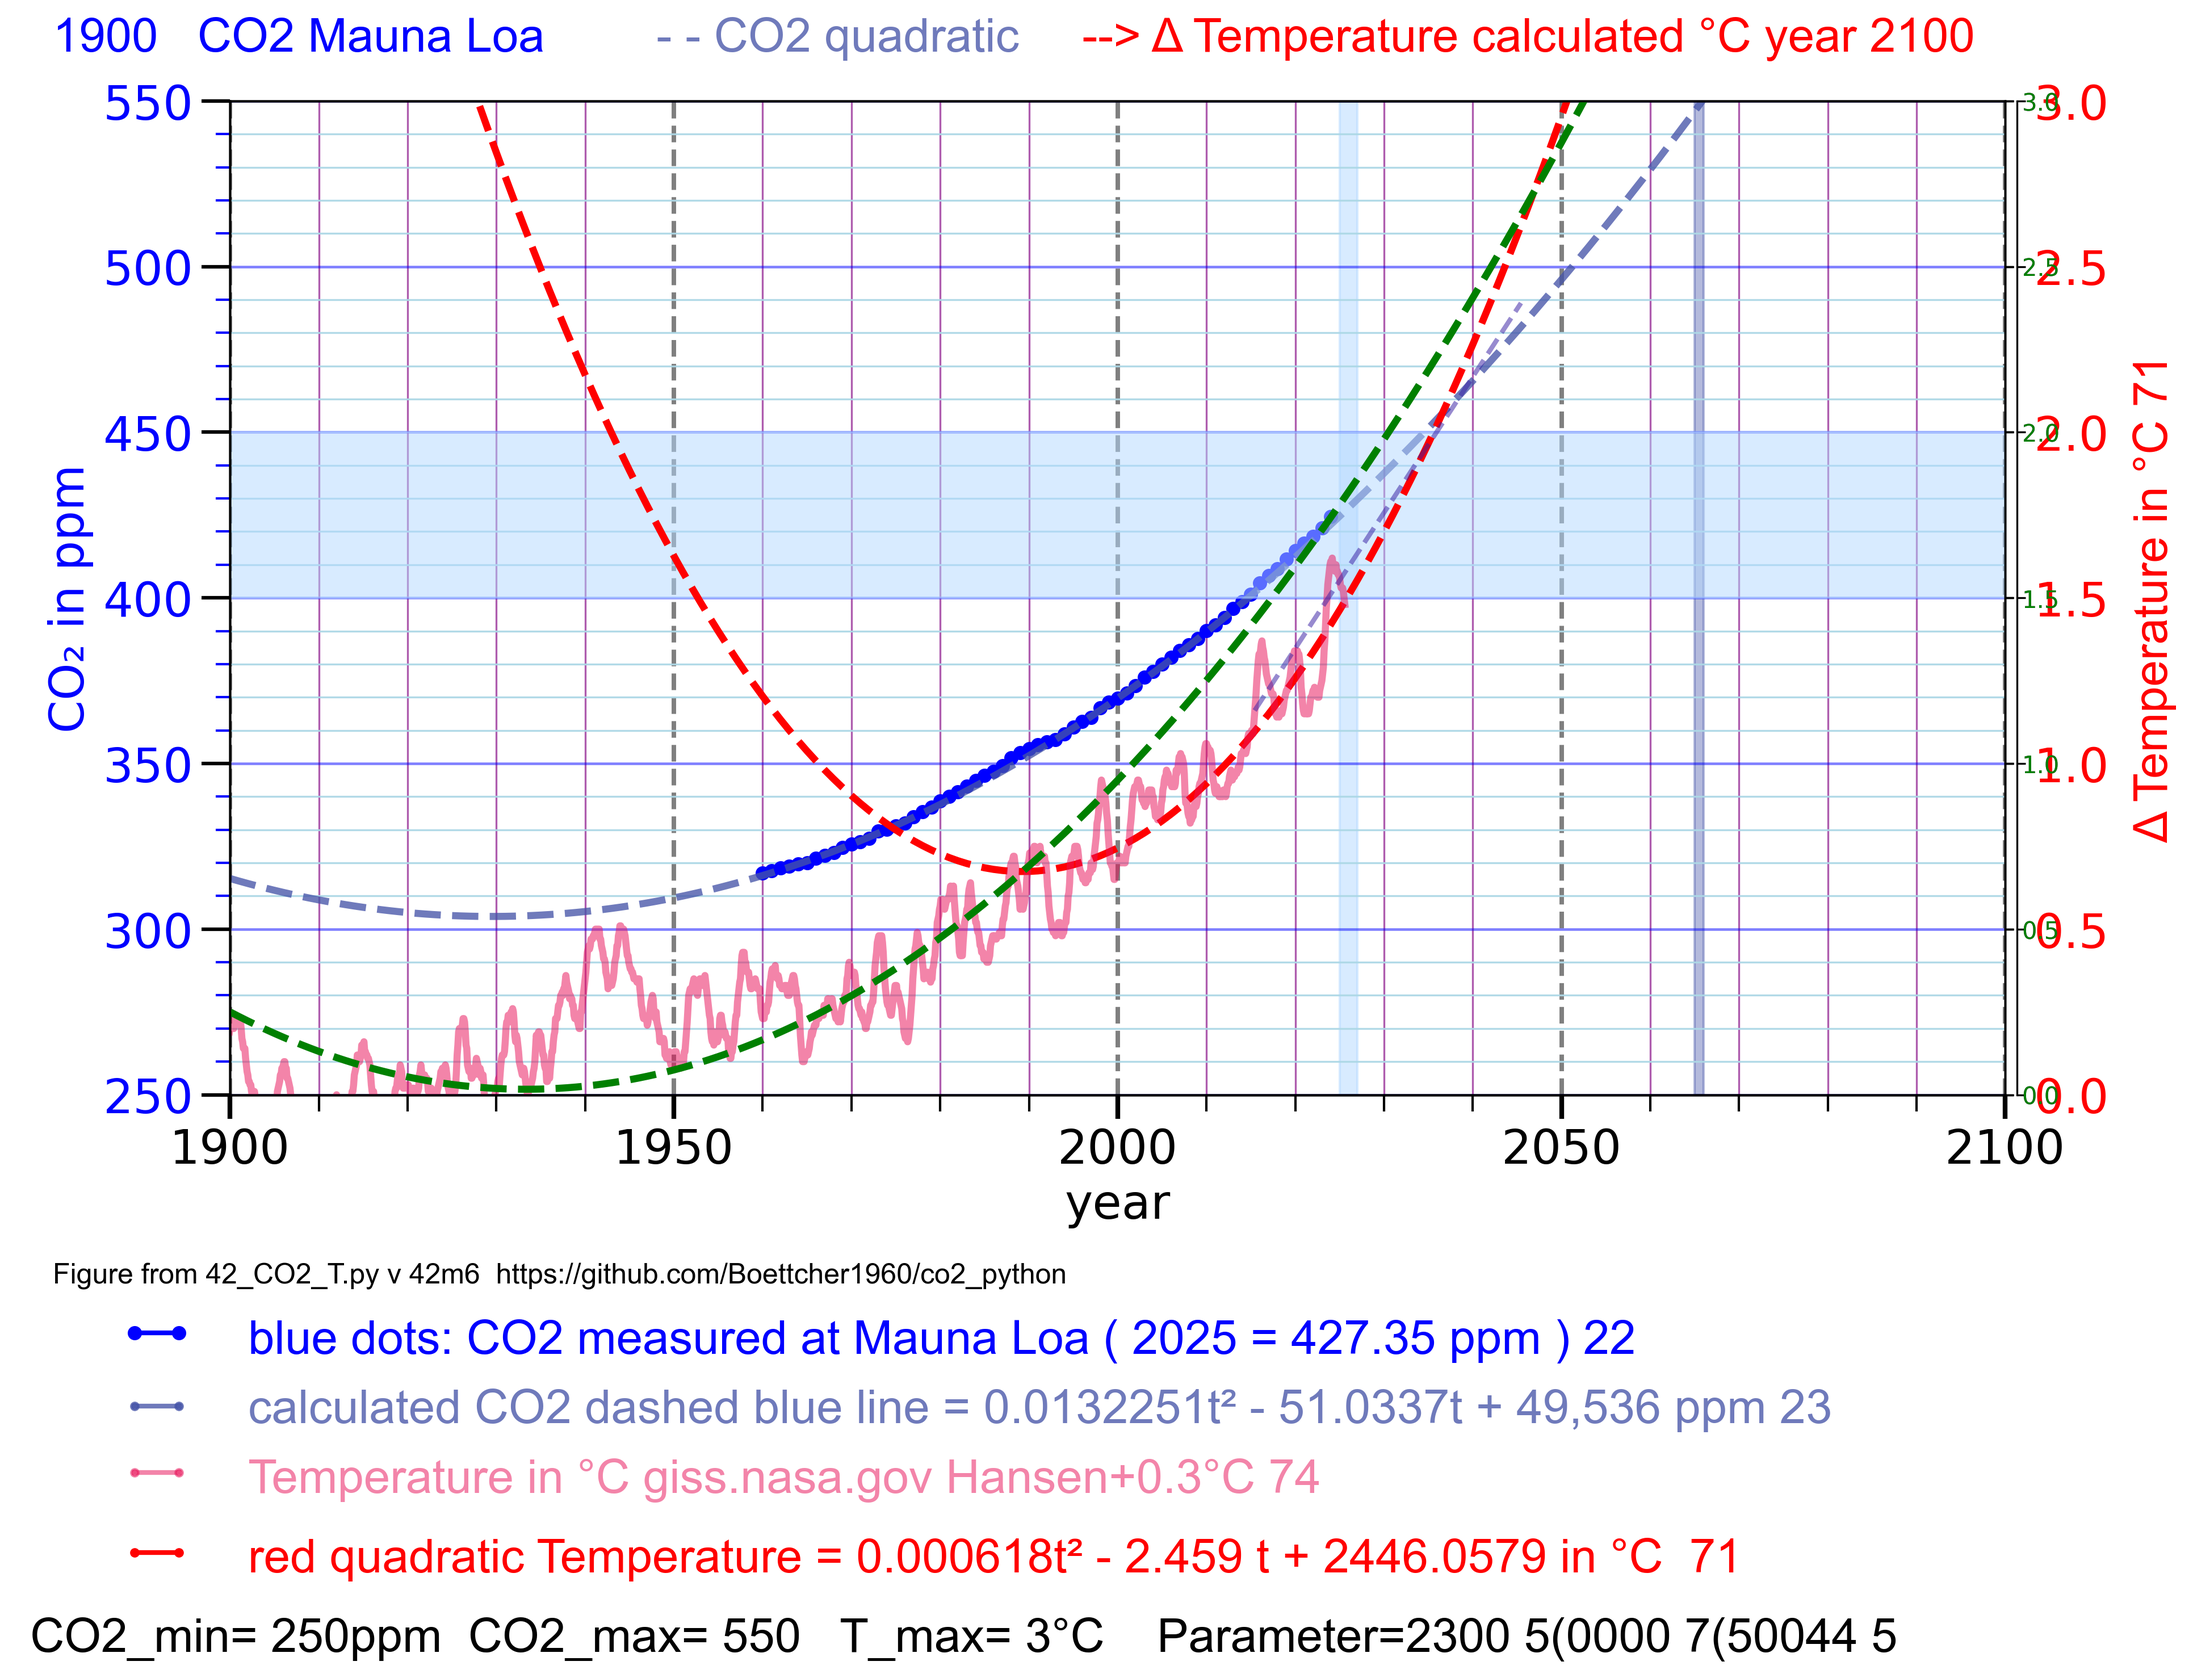
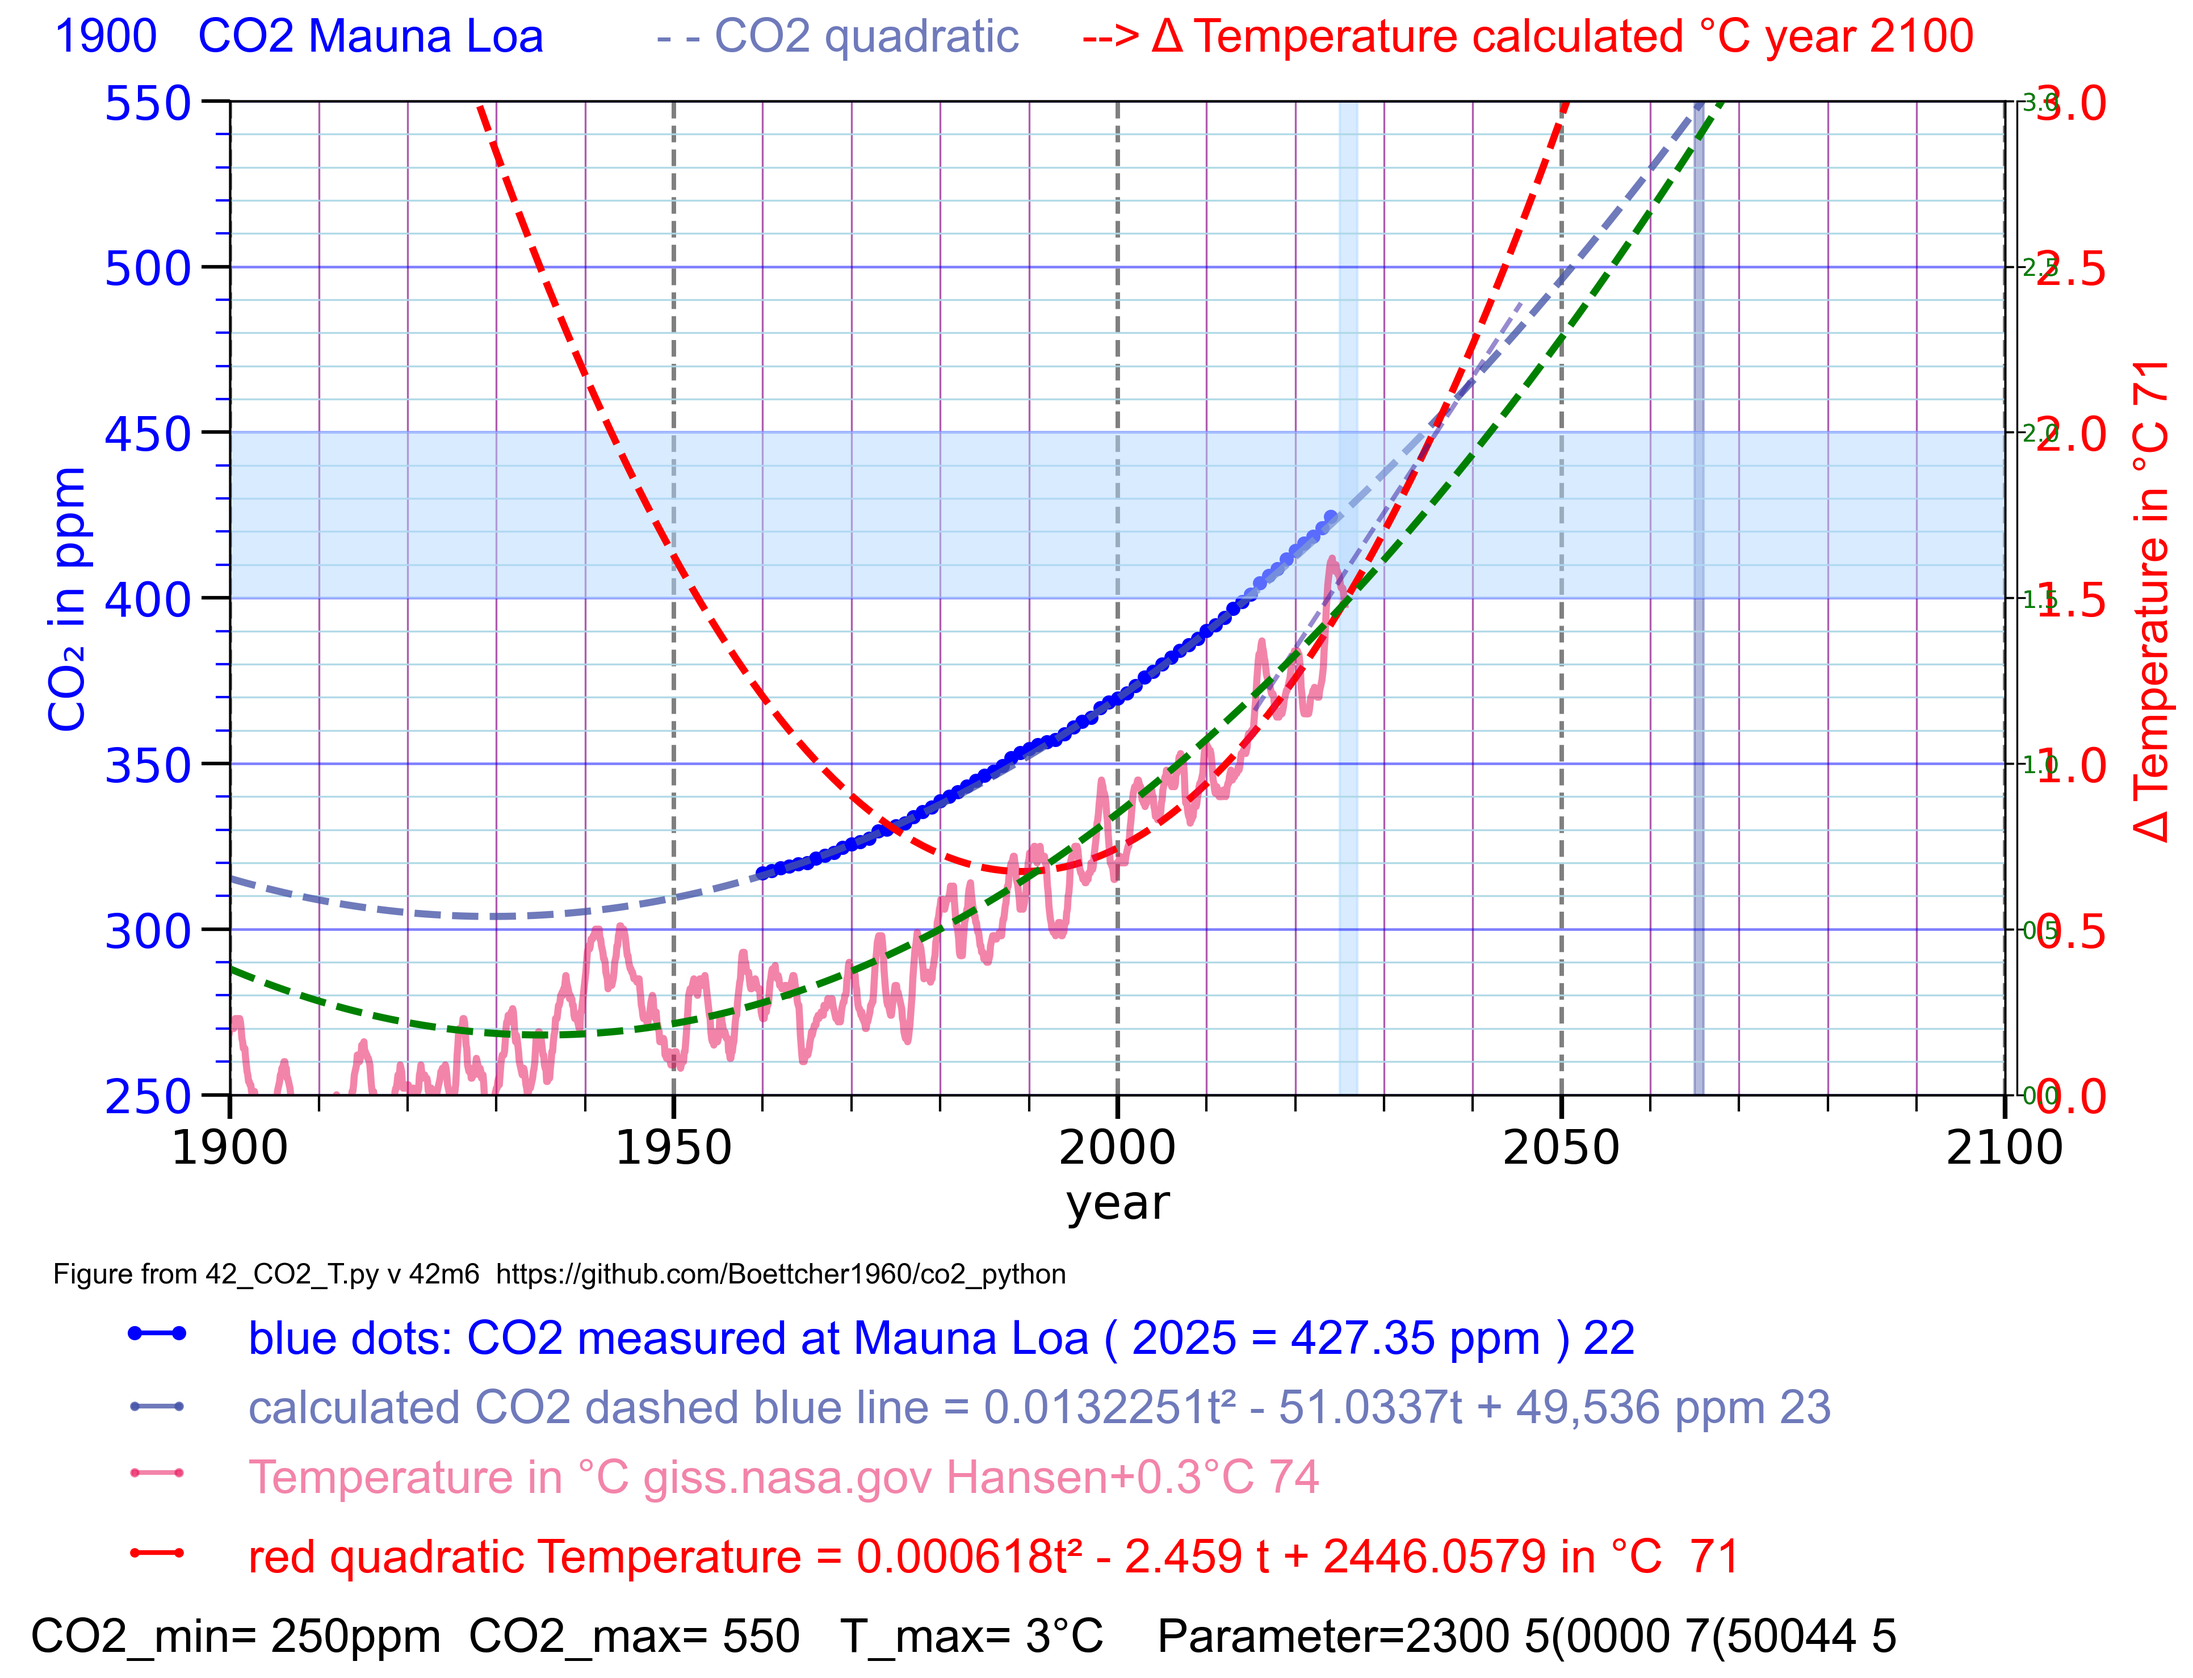
def T_model76m2(t):     x = t - 2000     return 0.00016 * x**2 + 0.0207 * x + 0.85

diff --git a/42_CO2_T.py b/42_CO2_T.py
@@ -587,45 +587,16 @@ if linear_41_75 > 0:
 
 # plot76_my_T
 red76_text="my_T  76"
-# 7.6 
-#
-def T_model76a(t):
-   CO2= 0.0132251 * t**2 - 51.0337 * t + 49536.7 # Glen formula
-   #yppm = 440 -340   # scaling left y axis
-   #yT   = 1.6 - 0.6  # scaling right y axis
-   # scale 1.5°C at 410 ppm 2022: 418.53, 418-280 = 138
-   temp76= ( CO2 -280 ) / 99
-   temp76= temp76 +0.02
-   return temp76
-#can you make a quadatic function like the below T_model71(t)
-# which returns 0.2 for t = 1950
-# which returns 1.0 for t = 2013
-# which returns 1.5 for t = 2023
-def T_model71d(t):
-   return 0.000617965091650558 * t**2 - 2.45858656778789 * t + 2446.05792853123
-def T_model76f(t):
+# 7.6.1
+def T_model76m1(t):
     x = t - 2000
-    return 0.000525368248010184 * x**2 + 0.030377 * x + 0.7
-def T_model76g(t):
+    return 0.00017 * x**2 + 0.022 * x + 0.85
+def T_model76m2(t):
     x = t - 2000
-    return 0.0005 * x**2 + 0.02 * x + 0.7
-def T_model76h(t):
-    x = t - 2000
-    return 0.00035 * x**2 + 0.02 * x + 0.5
-def T_model76h2(t):
-    x = t - 2000
-    return 0.00027 * x**2 + 0.025 * x + 0.6
-def T_model76h3(t):
-    x = t - 2000
-    return 0.00023 * x**2 + 0.027 * x + 0.8
+    return 0.00016 * x**2 + 0.0207 * x + 0.85
 def T_model76(t):
     x = t - 2000
-    return 0.00021 * x**2 + 0.028 * x + 0.95
-def T_model76h4(t):
-    x = t - 2000
-    return 0.00022 * x**2 + 0.028 * x + 0.95
-
-
+    return 0.00016 * x**2 + 0.0207 * x + 0.85
 # 7.6.2 years scale x axis
 years76 = np.arange(x_anf, x_end + 1 )
 T_76values = T_model76(years76)
